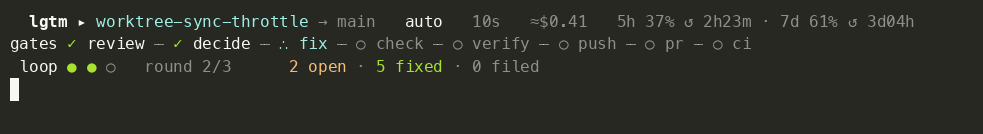
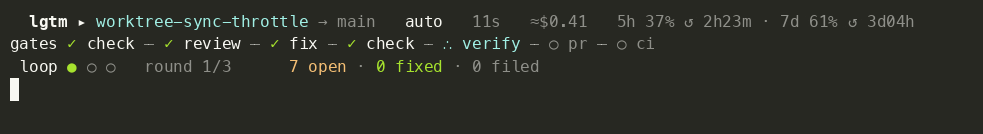
The floor: your checks run on the diff before the review; decide shows only in manual; push folded into pr

diff --git a/internal/ceremony/ceremony.go b/internal/ceremony/ceremony.go
@@ -91,6 +91,9 @@ func Prepare(ctx context.Context, o Options) (*Ceremony, error) { return prepare
 
 // Run executes a prepared ceremony.
 func (c *Ceremony) Run(ctx context.Context) error {
+	if err := c.floor(ctx); err != nil {
+		return c.fail(err)
+	}
 	if err := c.discover(ctx); err != nil {
 		return c.fail(err)
 	}
@@ -298,6 +301,31 @@ func (c *Ceremony) refreshDiff(ctx context.Context) error {
 	}
 	c.changed, err = gitx.ChangedFiles(ctx, c.root, c.mergeBase, "HEAD", ownFiles...)
 	return err
+}
+
+// floor runs your checks on the branch's own changes before any token is
+// spent. A diff that doesn't compile doesn't get reviewed; it gets sent back.
+func (c *Ceremony) floor(ctx context.Context) error {
+	if c.run.Findings.Closed {
+		return nil // resumed: the floor already passed
+	}
+	c.step("floor", fmt.Sprintf("%d changed file(s)", len(c.changed)))
+	checks := project.Run(ctx, c.root, project.Plan(c.repo, c.changed))
+	ok, skipped := project.AllOK(checks)
+	if skipped == len(checks) {
+		c.println("no checks configured for the changed files; `lgtm init` adds them")
+		return nil
+	}
+	if !ok {
+		if env := environmentFailure(checks); env != "" {
+			c.println("a check could not run in this worktree (%s); install dependencies here first", env)
+		} else {
+			c.println("your checks fail on this branch; fix them before review")
+		}
+		c.println("%s", checksText(checks))
+		return errors.New("checks failed before review")
+	}
+	return nil
 }
 
 // discover runs the lenses — one call or one per lens — into the closed set.
@@ -674,7 +702,7 @@ func (c *Ceremony) commitRound(ctx context.Context, touched []string, fixed []fi
 
 func (c *Ceremony) openPR(ctx context.Context) error {
 	c.run.Phase = run.PR
-	c.step("push", "origin/"+c.branch)
+	c.step("pr", "pushing "+c.branch)
 	if err := gitx.Push(ctx, c.root, "origin", c.branch); err != nil {
 		return err
 	}

diff --git a/internal/tui/tui.go b/internal/tui/tui.go
@@ -330,16 +330,16 @@ func (m *model) progress() string {
 	r := m.run
 	b.WriteString("\n " + sSubtle.Render("GATES") + "\n")
 	reached := false
-	for _, g := range run.Gates {
-		mark, name, note := sFaint.Render("○"), sFaint.Render(pad(g, 8)), ""
+	for _, g := range run.VisibleGates(r.Mode) {
+		mark, name, note := sFaint.Render("○"), sFaint.Render(pad(g.Label, 8)), ""
 		switch {
-		case g == r.Step && !reached:
+		case g.ID == r.Step && !reached:
 			reached = true
-			mark, name = sAccent.Render(m.spin.View()), sAccent.Render(pad(g, 8))
+			mark, name = sAccent.Render(m.spin.View()), sAccent.Render(pad(g.Label, 8))
 			note = sSubtle.Render(r.StepNote)
 		case !reached:
-			mark, name = sGreen.Render("✓"), pad(g, 8)
-			note = sFaint.Render(gateSummary(g, r))
+			mark, name = sGreen.Render("✓"), pad(g.Label, 8)
+			note = sFaint.Render(gateSummary(g.ID, r))
 		}
 		fmt.Fprintf(&b, "   %s %s  %s\n", mark, name, note)
 	}
@@ -374,6 +374,8 @@ func (m *model) progress() string {
 func gateSummary(g string, r run.Run) string {
 	c := r.Findings.Counts()
 	switch g {
+	case "floor":
+		return "your checks, on the diff"
 	case "review":
 		n := len(r.Lenses)
 		if n == 1 {
@@ -387,8 +389,6 @@ func gateSummary(g string, r run.Run) string {
 			last := r.Rounds[len(r.Rounds)-1]
 			return fmt.Sprintf("round %d", len(r.Rounds)) + map[bool]string{true: " · reverted", false: fmt.Sprintf(" · %d confirmed", last.Fixed)}[last.Reverted]
 		}
-	case "push":
-		return "origin/" + r.Branch
 	case "pr":
 		if r.PR != nil {
 			return fmt.Sprintf("#%d", r.PR.Number)

diff --git a/internal/tui/demobar.go b/internal/tui/demobar.go
@@ -33,7 +33,7 @@ func DemoBar(ctx context.Context, opt DemoBarOptions) error {
 		opt.Passes = 1
 	}
 	r := &run.Run{Branch: "worktree-sync-throttle", Base: "main", Mode: "auto", MaxRounds: 3, PID: os.Getpid(),
-		StartedAt: now, Phase: run.Discover, Step: "review"}
+		StartedAt: now, Phase: run.Discover, Step: "floor", StepNote: "2 changed files"}
 	switch {
 	case opt.Parallel:
 		for _, l := range []struct{ name, model string }{{"correctness", "opus"}, {"conventions", "haiku"}, {"security", "opus"}, {"tests", "sonnet"}} {
@@ -81,6 +81,11 @@ func DemoBar(ctx context.Context, opt DemoBarOptions) error {
 		}
 		return true
 	}
+	// the floor: your checks first
+	if !frame(1200 * time.Millisecond) {
+		return nil
+	}
+	r.Step = "review"
 	// review: the bars fill
 	switch {
 	case opt.Parallel:
@@ -161,11 +166,9 @@ func DemoBar(ctx context.Context, opt DemoBarOptions) error {
 	set.Transition(set.Findings[5].ID, finding.Accepted, 2)
 	set.Transition(set.Findings[6].ID, finding.Fixed, 2)
 	r.Rounds = append(r.Rounds, run.RoundSummary{Fixed: 1, Open: 0})
-	for _, g := range []string{"push", "pr"} {
-		r.Phase, r.Step = run.PR, g
-		if !frame(1000 * time.Millisecond) {
-			return nil
-		}
+	r.Phase, r.Step = run.PR, "pr"
+	if !frame(1800 * time.Millisecond) {
+		return nil
 	}
 	r.PR = &run.PRInfo{Number: 126, URL: "https://github.com/you/repo/pull/126"}
 	r.Phase, r.Step = run.CI, "ci"

diff --git a/internal/tui/demo.go b/internal/tui/demo.go
@@ -51,7 +51,7 @@ func Demo(ctx context.Context) error {
 
 	go func() {
 		r := run.Run{Branch: "worktree-sync-throttle", Base: "main", Mode: "manual", MaxRounds: 3,
-			StartedAt: time.Now(), Phase: run.Discover, Step: "review", StepNote: "4 lenses",
+			StartedAt: time.Now(), Phase: run.Discover, Step: "floor", StepNote: "2 changed files",
 			Lenses: []run.Lens{{Name: "review", Model: "opus", State: run.Running, StartedAt: time.Now()}}}
 		tick := func(d time.Duration) bool {
 			select {
@@ -63,6 +63,11 @@ func Demo(ctx context.Context) error {
 		}
 		send := func() { p.Send(updateMsg{r}) }
 
+		send()
+		if !tick(1300 * time.Millisecond) {
+			return
+		}
+		r.Step, r.StepNote = "review", "4 lenses"
 		send()
 		if !tick(2200 * time.Millisecond) {
 			return
@@ -141,7 +146,7 @@ func Demo(ctx context.Context) error {
 		for _, s := range []struct {
 			step, note string
 			d          time.Duration
-		}{{"push", "origin/worktree-sync-throttle", 1200 * time.Millisecond}, {"pr", "writing the body", 1800 * time.Millisecond}} {
+		}{{"pr", "pushing worktree-sync-throttle", 1000 * time.Millisecond}, {"pr", "writing the body", 1600 * time.Millisecond}} {
 			r.Step, r.StepNote = s.step, s.note
 			send()
 			if !tick(s.d) {

diff --git a/internal/tui/render_test.go b/internal/tui/render_test.go
@@ -79,7 +79,7 @@ func TestProgressFrame(t *testing.T) {
 		set.Transition(set.Findings[i].ID, finding.Fixed, 1)
 	}
 	set.Transition(set.Findings[3].ID, finding.Accepted, 1)
-	m.run = run.Run{Branch: "worktree-sync-throttle", Base: "main", CostUSD: 0.62, Phase: run.Fix,
+	m.run = run.Run{Branch: "worktree-sync-throttle", Base: "main", Mode: "manual", CostUSD: 0.62, Phase: run.Fix,
 		Step: "fix", StepNote: "agent working on 3 finding(s)", Round: 2, MaxRounds: 3,
 		Lenses: []run.Lens{{Name: "review"}}, Findings: set,
 		Rounds: []run.RoundSummary{{Fixed: 3, Filed: 1, Open: 3}}}
@@ -87,7 +87,7 @@ func TestProgressFrame(t *testing.T) {
 	if os.Getenv("SHOW") != "" {
 		fmt.Println(out)
 	}
-	for _, want := range []string{"GATES", "✓ review", "✓ decide", "fix       agent working", "○ check", "ROUNDS", "round 1: 3 fixed"} {
+	for _, want := range []string{"GATES", "✓ check", "✓ review", "✓ decide", "fix       agent working", "○ check", "○ verify", "○ pr", "ROUNDS", "round 1: 3 fixed"} {
 		if !contains(out, want) {
 			t.Errorf("frame missing %q\n%s", want, out)
 		}

diff --git a/internal/render/render.go b/internal/render/render.go
@@ -243,18 +243,18 @@ func single(r *run.Run, now time.Time, st Style, plan *PlanUsage) string {
 			rows = append(rows, row(st, "", lensRow(l, now, stem, st), "", ""))
 		}
 	}
-	if r.Step != "" && r.Step != "review" && r.Phase != run.Done {
+	if r.Step != "" && r.Step != "review" && r.Step != "floor" && r.Phase != run.Done {
 		var parts []string
 		reached := false
-		for _, g := range run.Gates {
+		for _, g := range run.VisibleGates(r.Mode) {
 			switch {
-			case g == r.Step && !reached:
+			case g.ID == r.Step && !reached:
 				reached = true
-				parts = append(parts, st.c(accent, "∴ "+g))
+				parts = append(parts, st.c(accent, "∴ "+g.Label))
 			case !reached:
-				parts = append(parts, st.c(good, "✓ ")+g)
+				parts = append(parts, st.c(good, "✓ ")+g.Label)
 			default:
-				parts = append(parts, st.c(dim, "○ "+g))
+				parts = append(parts, st.c(dim, "○ "+g.Label))
 			}
 		}
 		rows = append(rows, row(st, "gates", strings.Join(parts, st.c(dim, " ─ ")), "", ""))

diff --git a/internal/run/run.go b/internal/run/run.go
@@ -71,8 +71,29 @@ type RoundSummary struct {
 	Reverted bool `json:"reverted,omitempty"`
 }
 
+// Gate is one stop on the track. Step values are IDs; the bar shows labels,
+// which is how "check" can appear twice: once as the floor, once per round.
+type Gate struct{ ID, Label string }
+
 // Gates is the track, in order. The decide→fix→check→verify stretch repeats.
-var Gates = []string{"review", "decide", "fix", "check", "verify", "push", "pr", "ci"}
+var Gates = []Gate{
+	{"floor", "check"}, {"review", "review"}, {"decide", "decide"},
+	{"fix", "fix"}, {"check", "check"}, {"verify", "verify"}, {"pr", "pr"}, {"ci", "ci"},
+}
+
+// VisibleGates drops decide on autopilot, where it never happens.
+func VisibleGates(mode string) []Gate {
+	if mode != "auto" {
+		return Gates
+	}
+	var out []Gate
+	for _, g := range Gates {
+		if g.ID != "decide" {
+			out = append(out, g)
+		}
+	}
+	return out
+}
 
 type PRInfo struct {
 	Number int    `json:"number"`

diff --git a/internal/render/render_test.go b/internal/render/render_test.go
@@ -162,7 +162,7 @@ func TestGateTrackRow(t *testing.T) {
 	r.Phase, r.Step, r.Round = run.Verify, "verify", 2
 	r.Findings.Close()
 	out := Render(Input{Runs: []*run.Run{r}, Now: now}, Style{Cols: 110})
-	if !strings.Contains(out, "gates ✓ review ─ ✓ decide ─ ✓ fix ─ ✓ check ─ ∴ verify ─ ○ push ─ ○ pr ─ ○ ci") {
+	if !strings.Contains(out, "gates ✓ check ─ ✓ review ─ ✓ decide ─ ✓ fix ─ ✓ check ─ ∴ verify ─ ○ pr ─ ○ ci") {
 		t.Fatalf("no gate track:\n%s", out)
 	}
 	if os.Getenv("SHOW") != "" {

diff --git a/README.md b/README.md
@@ -21,23 +21,22 @@ You need `git`, `gh` logged in, and `claude` on your PATH (or another agent; see
 
 ![lgtm reviewing a branch in the terminal: findings, the gates, the stamp](docs/demo.gif)
 
-1. **review.** Four lenses read the diff between your branch and its base: correctness, your project's conventions (from `CLAUDE.md` / `AGENTS.md`), security, tests. The agent can read the rest of the repo while it thinks; that's where the good findings come from.
-2. **decide.** On autopilot this step is instant: every finding goes to the fixer with the judgement calls delegated. In manual mode, this is where it asks you.
-3. **fix.** The agent edits your working tree.
-4. **check.** Your own test and lint commands run on the files it touched. A fix that fails them is reverted, not committed.
+1. **check.** Your own test and lint commands run on the files your branch changed, before a single token is spent. A diff that doesn't pass its own checks is sent back, not reviewed.
+2. **review.** Four lenses read the diff between your branch and its base: correctness, your project's conventions (from `CLAUDE.md` / `AGENTS.md`), security, tests. The agent can read the rest of the repo while it thinks; that's where the good findings come from.
+3. **fix.** The agent edits your working tree. (In manual mode there's a **decide** gate first, where it asks you.)
+4. **check** again, on the files it touched. A fix that fails is reverted, not committed.
 5. **verify.** Each fix is confirmed against the new diff. Anything still open goes around again, up to `max_fix_rounds`. The list of findings only ever gets shorter, so this always ends.
-6. **push, pr, ci.** It pushes, writes the PR body from the diff and the literal check output, opens the PR, reacts 👀, watches CI, reacts 👍.
+6. **pr, ci.** It pushes, writes the PR body from the diff and the literal check output, opens the PR, reacts 👀, watches CI, reacts 👍.
 
 ```
  lgtm · worktree-sync-throttle → main      ⠋ fix · round 2 of 3      ≈$0.62
 
  GATES
+   ✓ check     your checks, on the diff
    ✓ review    4 lenses · 7 found
-   ✓ decide    3 fixed · 1 accepted · 0 dismissed
    ⠋ fix       agent working on 3 finding(s)
    ○ check
    ○ verify
-   ○ push
    ○ pr
    ○ ci
 
@@ -146,10 +145,10 @@ With `dispatch = "parallel"` there's a bar per lens, and with `passes` a bar per
       ╰ tests        ██████▎░░░░░░     –   sonnet  1m04s
 ```
 
-**After the review.** The gate track replaces the bars (✓ passed · ∴ now · ○ ahead), with the loop row under it:
+**After the review.** The gate track replaces the bars (✓ passed · ∴ now · ○ ahead), with the loop row under it. `check` appears twice on purpose: once on your diff before the review, once per fix round. `decide` shows only in manual mode.
 
 ```
-gates ✓ review ─ ✓ decide ─ ✓ fix ─ ✓ check ─ ∴ verify ─ ○ push ─ ○ pr ─ ○ ci
+gates ✓ check ─ ✓ review ─ ✓ fix ─ ✓ check ─ ∴ verify ─ ○ pr ─ ○ ci
  loop ● ● ○  round 2/3      2 open · 5 fixed · 0 filed
 ```
 
@@ -237,7 +236,7 @@ test = "npx vitest related {files} --run"    # {files} = the changed paths, rela
 lint = "npm run typecheck && npx eslint {files}"
 ```
 
-`init` detects these from `package.json`, `go.mod`, `pyproject.toml`, and `Cargo.toml`, two levels deep. A fix round that no check validated is not committed.
+`init` detects these from `package.json`, `go.mod`, `pyproject.toml`, and `Cargo.toml`, two levels deep. These commands are the floor: they run on your diff before the review and on every fix after it. A fix round that no check validated is not committed.
 
 ### The pull request
 
